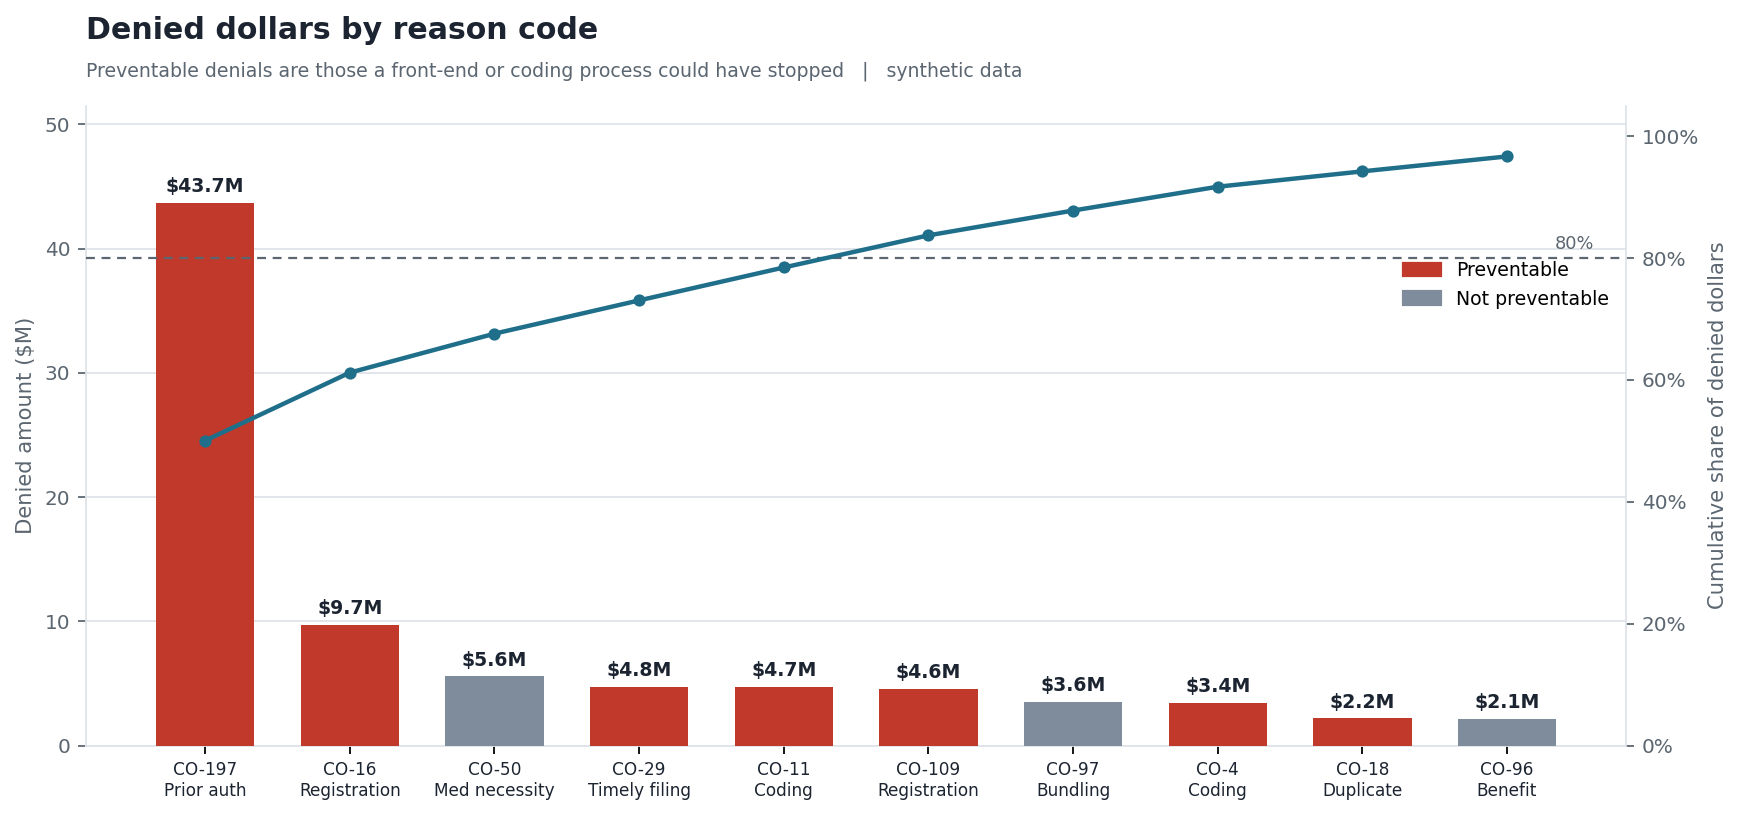
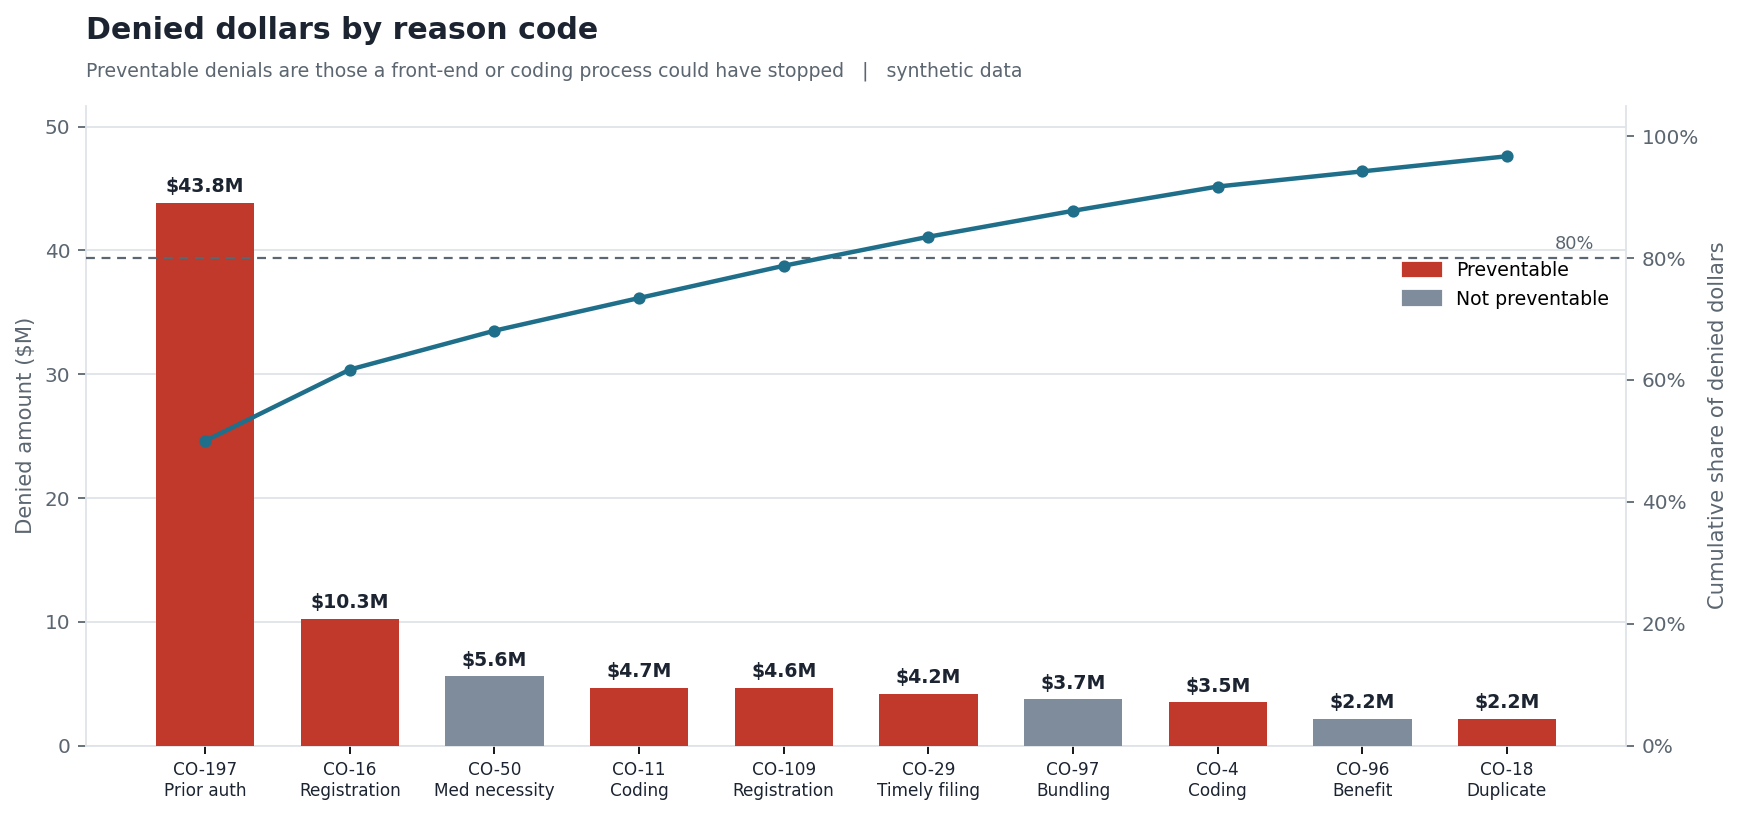
Revenue cycle case study: corrected figures and audit findings
The late-filing rate and payer net collection divided by all claims, including those still in process; the corrected late-filing effect is nearly 4x rather than 3.5x. 'More than twice Medicare's denial rate' was 1.9x and now says so. Headline KPIs updated to the rebuilt data, plus a section on what the pre-dashboard audit found.

diff --git a/index.html b/index.html
@@ -262,7 +262,7 @@
                     </div>
                 </div>
                 <figure class="case__figure case__figure--chart">
-                    <svg class="chart" viewBox="0 0 600 300" preserveAspectRatio="xMidYMid meet" role="img" xmlns="http://www.w3.org/2000/svg"><title>Denied dollars by reason code, with cumulative share</title><desc>Prior authorisation alone is 50 percent of denied dollars; the top three codes reach 67.6 percent.</desc><line x1="54" y1="184.5" x2="554" y2="184.5" stroke="var(--chart-line, #d8d7d0)" stroke-width="1" opacity=".6"/><text x="45" y="188.5" text-anchor="end" class="c-cap">$12M</text><line x1="54" y1="131.0" x2="554" y2="131.0" stroke="var(--chart-line, #d8d7d0)" stroke-width="1" opacity=".6"/><text x="45" y="135.0" text-anchor="end" class="c-cap">$24M</text><line x1="54" y1="77.5" x2="554" y2="77.5" stroke="var(--chart-line, #d8d7d0)" stroke-width="1" opacity=".6"/><text x="45" y="81.5" text-anchor="end" class="c-cap">$35M</text><line x1="54" y1="24.0" x2="554" y2="24.0" stroke="var(--chart-line, #d8d7d0)" stroke-width="1" opacity=".6"/><text x="45" y="28.0" text-anchor="end" class="c-cap">$47M</text><rect x="66.5" y="39.9" width="37.5" height="198.1" rx="2" fill="var(--chart-warn, #d4573f)"/><text x="85.2" y="255" text-anchor="middle" class="c-lbl-sm">CO-197</text><rect x="129.0" y="193.8" width="37.5" height="44.2" rx="2" fill="var(--chart-warn, #d4573f)"/><text x="147.8" y="255" text-anchor="middle" class="c-lbl-sm">CO-16</text><rect x="191.5" y="212.7" width="37.5" height="25.3" rx="2" fill="var(--chart-muted-bar, #a9a79e)"/><text x="210.2" y="255" text-anchor="middle" class="c-lbl-sm">CO-50</text><rect x="254.0" y="216.4" width="37.5" height="21.6" rx="2" fill="var(--chart-warn, #d4573f)"/><text x="272.8" y="255" text-anchor="middle" class="c-lbl-sm">CO-29</text><rect x="316.5" y="216.6" width="37.5" height="21.4" rx="2" fill="var(--chart-warn, #d4573f)"/><text x="335.2" y="255" text-anchor="middle" class="c-lbl-sm">CO-11</text><rect x="379.0" y="217.1" width="37.5" height="20.9" rx="2" fill="var(--chart-warn, #d4573f)"/><text x="397.8" y="255" text-anchor="middle" class="c-lbl-sm">CO-109</text><rect x="441.5" y="221.9" width="37.5" height="16.1" rx="2" fill="var(--chart-muted-bar, #a9a79e)"/><text x="460.2" y="255" text-anchor="middle" class="c-lbl-sm">CO-97</text><rect x="504.0" y="222.5" width="37.5" height="15.5" rx="2" fill="var(--chart-warn, #d4573f)"/><text x="522.8" y="255" text-anchor="middle" class="c-lbl-sm">CO-4</text><path d="M85.2,130.9 L147.8,107.0 L210.2,93.4 L272.8,81.7 L335.2,70.1 L397.8,58.8 L460.2,50.1 L522.8,41.8" fill="none" stroke="var(--chart-1, #2a78d6)" stroke-width="2" stroke-linejoin="round"/><circle cx="85.2" cy="130.9" r="3" fill="var(--chart-1, #2a78d6)"/><circle cx="147.8" cy="107.0" r="3" fill="var(--chart-1, #2a78d6)"/><circle cx="210.2" cy="93.4" r="3" fill="var(--chart-1, #2a78d6)"/><circle cx="272.8" cy="81.7" r="3" fill="var(--chart-1, #2a78d6)"/><circle cx="335.2" cy="70.1" r="3" fill="var(--chart-1, #2a78d6)"/><circle cx="397.8" cy="58.8" r="3" fill="var(--chart-1, #2a78d6)"/><circle cx="460.2" cy="50.1" r="3" fill="var(--chart-1, #2a78d6)"/><circle cx="522.8" cy="41.8" r="3" fill="var(--chart-1, #2a78d6)"/><text x="518.8" y="30.8" text-anchor="end" class="c-val">92% of denied $</text><rect x="54" y="279" width="10" height="10" rx="2" fill="var(--chart-warn, #d4573f)"/><text x="70" y="288" class="c-cap">preventable</text><rect x="170" y="279" width="10" height="10" rx="2" fill="var(--chart-muted-bar, #a9a79e)"/><text x="186" y="288" class="c-cap">not preventable</text></svg>
+                    <svg class="chart" viewBox="0 0 600 300" preserveAspectRatio="xMidYMid meet" role="img" xmlns="http://www.w3.org/2000/svg"><title>Denied dollars by reason code, with cumulative share</title><desc>Prior authorisation alone is 50 percent of denied dollars; the top three codes reach 67.6 percent.</desc><line x1="54" y1="184.5" x2="554" y2="184.5" stroke="var(--chart-line, #d8d7d0)" stroke-width="1" opacity=".6"/><text x="45" y="188.5" text-anchor="end" class="c-cap">$12M</text><line x1="54" y1="131.0" x2="554" y2="131.0" stroke="var(--chart-line, #d8d7d0)" stroke-width="1" opacity=".6"/><text x="45" y="135.0" text-anchor="end" class="c-cap">$24M</text><line x1="54" y1="77.5" x2="554" y2="77.5" stroke="var(--chart-line, #d8d7d0)" stroke-width="1" opacity=".6"/><text x="45" y="81.5" text-anchor="end" class="c-cap">$35M</text><line x1="54" y1="24.0" x2="554" y2="24.0" stroke="var(--chart-line, #d8d7d0)" stroke-width="1" opacity=".6"/><text x="45" y="28.0" text-anchor="end" class="c-cap">$47M</text><rect x="66.5" y="39.9" width="37.5" height="198.1" rx="2" fill="var(--chart-warn, #d4573f)"/><text x="85.2" y="255" text-anchor="middle" class="c-lbl-sm">CO-197</text><rect x="129.0" y="191.6" width="37.5" height="46.4" rx="2" fill="var(--chart-warn, #d4573f)"/><text x="147.8" y="255" text-anchor="middle" class="c-lbl-sm">CO-16</text><rect x="191.5" y="212.7" width="37.5" height="25.3" rx="2" fill="var(--chart-muted-bar, #a9a79e)"/><text x="210.2" y="255" text-anchor="middle" class="c-lbl-sm">CO-50</text><rect x="254.0" y="216.8" width="37.5" height="21.2" rx="2" fill="var(--chart-warn, #d4573f)"/><text x="272.8" y="255" text-anchor="middle" class="c-lbl-sm">CO-11</text><rect x="316.5" y="217.0" width="37.5" height="21.0" rx="2" fill="var(--chart-warn, #d4573f)"/><text x="335.2" y="255" text-anchor="middle" class="c-lbl-sm">CO-109</text><rect x="379.0" y="219.1" width="37.5" height="18.9" rx="2" fill="var(--chart-warn, #d4573f)"/><text x="397.8" y="255" text-anchor="middle" class="c-lbl-sm">CO-29</text><rect x="441.5" y="221.1" width="37.5" height="16.9" rx="2" fill="var(--chart-muted-bar, #a9a79e)"/><text x="460.2" y="255" text-anchor="middle" class="c-lbl-sm">CO-97</text><rect x="504.0" y="222.2" width="37.5" height="15.8" rx="2" fill="var(--chart-warn, #d4573f)"/><text x="522.8" y="255" text-anchor="middle" class="c-lbl-sm">CO-4</text><path d="M85.2,131.0 L147.8,106.0 L210.2,92.3 L272.8,80.8 L335.2,69.5 L397.8,59.3 L460.2,50.2 L522.8,41.7" fill="none" stroke="var(--chart-1, #2a78d6)" stroke-width="2" stroke-linejoin="round"/><circle cx="85.2" cy="131.0" r="3" fill="var(--chart-1, #2a78d6)"/><circle cx="147.8" cy="106.0" r="3" fill="var(--chart-1, #2a78d6)"/><circle cx="210.2" cy="92.3" r="3" fill="var(--chart-1, #2a78d6)"/><circle cx="272.8" cy="80.8" r="3" fill="var(--chart-1, #2a78d6)"/><circle cx="335.2" cy="69.5" r="3" fill="var(--chart-1, #2a78d6)"/><circle cx="397.8" cy="59.3" r="3" fill="var(--chart-1, #2a78d6)"/><circle cx="460.2" cy="50.2" r="3" fill="var(--chart-1, #2a78d6)"/><circle cx="522.8" cy="41.7" r="3" fill="var(--chart-1, #2a78d6)"/><text x="518.8" y="30.7" text-anchor="end" class="c-val">92% of denied $</text><rect x="54" y="279" width="10" height="10" rx="2" fill="var(--chart-warn, #d4573f)"/><text x="70" y="288" class="c-cap">preventable</text><rect x="170" y="279" width="10" height="10" rx="2" fill="var(--chart-muted-bar, #a9a79e)"/><text x="186" y="288" class="c-cap">not preventable</text></svg>
                     <figcaption>Denied dollars by CARC code, with cumulative share. Prior authorisation alone is half of all denied dollars &mdash; and it is preventable.</figcaption>
                 </figure>
             </article>

diff --git a/work/revenue-cycle-denials.html b/work/revenue-cycle-denials.html
@@ -122,7 +122,7 @@ denied.</p>
 <thead><tr><th>Counted as</th><th>Codes</th><th class="num">Reported denial rate</th></tr></thead>
 <tbody>
 <tr><td>Every adjustment code</td><td>all CARCs</td><td class="num">&gt; 90%</td></tr>
-<tr><td>True denials only</td><td>CO-16, CO-197, CO-50, &hellip;</td><td class="num"><strong>11.08%</strong></td></tr>
+<tr><td>True denials only</td><td>CO-16, CO-197, CO-50, &hellip;</td><td class="num"><strong>11.10%</strong></td></tr>
 </tbody></table></div>
 <h2>Three grains, deliberately</h2>
 <div class="table-scroll"><table>
@@ -149,25 +149,42 @@ loudly, which is the entire point.</p>
 <div class="table-scroll"><table>
 <thead><tr><th>Metric</th><th class="num">Result</th><th>Definition used</th></tr></thead>
 <tbody>
-<tr><td>Denial rate</td><td class="num">11.08%</td><td>True-denial claims / adjudicated claims</td></tr>
-<tr><td>First-pass yield</td><td class="num">88.92%</td><td>Paid on first submission / adjudicated</td></tr>
-<tr><td>Net collection rate</td><td class="num">87.64%</td><td>Payments / allowed, over adjudicated claims only</td></tr>
-<tr><td>Days in AR</td><td class="num">43.8</td><td>Open AR / average daily net revenue</td></tr>
+<tr><td>Denial rate</td><td class="num">11.10%</td><td>True-denial claims / adjudicated claims</td></tr>
+<tr><td>First-pass yield</td><td class="num">88.90%</td><td>Paid on first submission / adjudicated</td></tr>
+<tr><td>Net collection rate</td><td class="num">87.63%</td><td>Payments / allowed, over adjudicated claims only</td></tr>
+<tr><td>Days in AR</td><td class="num">44.2</td><td>Open AR / average daily net revenue</td></tr>
 </tbody></table></div>
 <p>Two definitional choices are load-bearing. <strong>Net collection includes what the patient pays</strong>
 &mdash; modelling only the insurer understates it by the entire patient-responsibility share. And it is
 measured <strong>over adjudicated claims only</strong>; leaving in-flight claims in the denominator counts
 revenue that has not had a chance to be collected yet, and understates the rate every single month.</p>
-<p>87.64% against a 95% best-practice benchmark is not a bug in the model. It is the finding:
+<p>87.63% against a 95% best-practice benchmark is not a bug in the model. It is the finding:
 <strong>$50.5M of gap</strong> across the book, decomposing into denial write-offs, bad debt, and
 open AR.</p>
+<h2>What the audit caught</h2>
+<p>Before the dashboard was built, the data was audited the way a dashboard audits it &mdash; by
+looking for numbers that should agree and cells that should not exist. All 39 checks were passing.
+The audit still found three problems.</p>
+<ul>
+<li><strong>The documented formula was wrong.</strong> The README said <code>AVG(denied)</code> was the
+denial rate. It read 10.8% against the true 11.1%, and <code>AVG(appealed)</code> read 7% against a true
+appeal rate of 66%, because claims with no outcome yet were averaged in as zeros. Each flag is now NULL
+outside its own population, and a check tests the formula readers are told to use &mdash; not the one
+only the author knew.</li>
+<li><strong>The late-filing figure mixed denominators.</strong> It divided by all claims, including those
+still in process &mdash; 13% of late-filed claims against 3% of the rest, so the late bucket was
+understated most. Corrected, the finding got stronger: nearly 4&times;, not 3.5&times;.</li>
+<li><strong>A cell that should not exist.</strong> 61 timely-filing denials sat on claims filed within 30
+days of service; no payer&rsquo;s window is that short. The check that replaced it had been unable to
+fail &mdash; it tested that a three-branch <code>CASE</code> returned one of its own three values.</li>
+</ul>
 <h2>What it found</h2>
 <ul>
-<li><strong>Claims filed late are denied 3.5&times; as often.</strong> Claims submitted 90+ days after
-service deny at 36.3% against a baseline near 10% &mdash; and charge lag is a process problem, not a
+<li><strong>Claims filed late are denied nearly 4&times; as often.</strong> Claims submitted 90+ days after
+service deny at 41.5% against 10.6% for everything filed sooner &mdash; and charge lag is a process problem, not a
 payer problem.</li>
-<li><strong>A blended denial rate hides the spread.</strong> One payer denies at more than twice
-Medicare's 8.3% and collects 82.6% against Medicare's 90.8%. The blended number describes no
+<li><strong>A blended denial rate hides the spread.</strong> Medicaid denies at nearly twice
+Medicare's 8.3% and collects 85.7% against Medicare's 92.8%. The blended number describes no
 individual payer.</li>
 <li><strong>The work queue should rank by recoverable dollars, not claim count.</strong> The
 highest-volume denial reason is rarely the highest-value one; <code>vw_recovery_opportunity</code>

diff --git a/build.py b/build.py
@@ -366,7 +366,7 @@ denied.</p>
 <thead><tr><th>Counted as</th><th>Codes</th><th class="num">Reported denial rate</th></tr></thead>
 <tbody>
 <tr><td>Every adjustment code</td><td>all CARCs</td><td class="num">&gt; 90%</td></tr>
-<tr><td>True denials only</td><td>CO-16, CO-197, CO-50, &hellip;</td><td class="num"><strong>11.08%</strong></td></tr>
+<tr><td>True denials only</td><td>CO-16, CO-197, CO-50, &hellip;</td><td class="num"><strong>11.10%</strong></td></tr>
 </tbody></table></div>"""),
             ("Three grains, deliberately", """
 <div class="table-scroll"><table>
@@ -393,25 +393,42 @@ loudly, which is the entire point.</p>"""),
 <div class="table-scroll"><table>
 <thead><tr><th>Metric</th><th class="num">Result</th><th>Definition used</th></tr></thead>
 <tbody>
-<tr><td>Denial rate</td><td class="num">11.08%</td><td>True-denial claims / adjudicated claims</td></tr>
-<tr><td>First-pass yield</td><td class="num">88.92%</td><td>Paid on first submission / adjudicated</td></tr>
-<tr><td>Net collection rate</td><td class="num">87.64%</td><td>Payments / allowed, over adjudicated claims only</td></tr>
-<tr><td>Days in AR</td><td class="num">43.8</td><td>Open AR / average daily net revenue</td></tr>
+<tr><td>Denial rate</td><td class="num">11.10%</td><td>True-denial claims / adjudicated claims</td></tr>
+<tr><td>First-pass yield</td><td class="num">88.90%</td><td>Paid on first submission / adjudicated</td></tr>
+<tr><td>Net collection rate</td><td class="num">87.63%</td><td>Payments / allowed, over adjudicated claims only</td></tr>
+<tr><td>Days in AR</td><td class="num">44.2</td><td>Open AR / average daily net revenue</td></tr>
 </tbody></table></div>
 <p>Two definitional choices are load-bearing. <strong>Net collection includes what the patient pays</strong>
 &mdash; modelling only the insurer understates it by the entire patient-responsibility share. And it is
 measured <strong>over adjudicated claims only</strong>; leaving in-flight claims in the denominator counts
 revenue that has not had a chance to be collected yet, and understates the rate every single month.</p>
-<p>87.64% against a 95% best-practice benchmark is not a bug in the model. It is the finding:
+<p>87.63% against a 95% best-practice benchmark is not a bug in the model. It is the finding:
 <strong>$50.5M of gap</strong> across the book, decomposing into denial write-offs, bad debt, and
 open AR.</p>"""),
+            ("What the audit caught", """
+<p>Before the dashboard was built, the data was audited the way a dashboard audits it &mdash; by
+looking for numbers that should agree and cells that should not exist. All 39 checks were passing.
+The audit still found three problems.</p>
+<ul>
+<li><strong>The documented formula was wrong.</strong> The README said <code>AVG(denied)</code> was the
+denial rate. It read 10.8% against the true 11.1%, and <code>AVG(appealed)</code> read 7% against a true
+appeal rate of 66%, because claims with no outcome yet were averaged in as zeros. Each flag is now NULL
+outside its own population, and a check tests the formula readers are told to use &mdash; not the one
+only the author knew.</li>
+<li><strong>The late-filing figure mixed denominators.</strong> It divided by all claims, including those
+still in process &mdash; 13% of late-filed claims against 3% of the rest, so the late bucket was
+understated most. Corrected, the finding got stronger: nearly 4&times;, not 3.5&times;.</li>
+<li><strong>A cell that should not exist.</strong> 61 timely-filing denials sat on claims filed within 30
+days of service; no payer&rsquo;s window is that short. The check that replaced it had been unable to
+fail &mdash; it tested that a three-branch <code>CASE</code> returned one of its own three values.</li>
+</ul>"""),
             ("What it found", """
 <ul>
-<li><strong>Claims filed late are denied 3.5&times; as often.</strong> Claims submitted 90+ days after
-service deny at 36.3% against a baseline near 10% &mdash; and charge lag is a process problem, not a
+<li><strong>Claims filed late are denied nearly 4&times; as often.</strong> Claims submitted 90+ days after
+service deny at 41.5% against 10.6% for everything filed sooner &mdash; and charge lag is a process problem, not a
 payer problem.</li>
-<li><strong>A blended denial rate hides the spread.</strong> One payer denies at more than twice
-Medicare's 8.3% and collects 82.6% against Medicare's 90.8%. The blended number describes no
+<li><strong>A blended denial rate hides the spread.</strong> Medicaid denies at nearly twice
+Medicare's 8.3% and collects 85.7% against Medicare's 92.8%. The blended number describes no
 individual payer.</li>
 <li><strong>The work queue should rank by recoverable dollars, not claim count.</strong> The
 highest-volume denial reason is rarely the highest-value one; <code>vw_recovery_opportunity</code>
